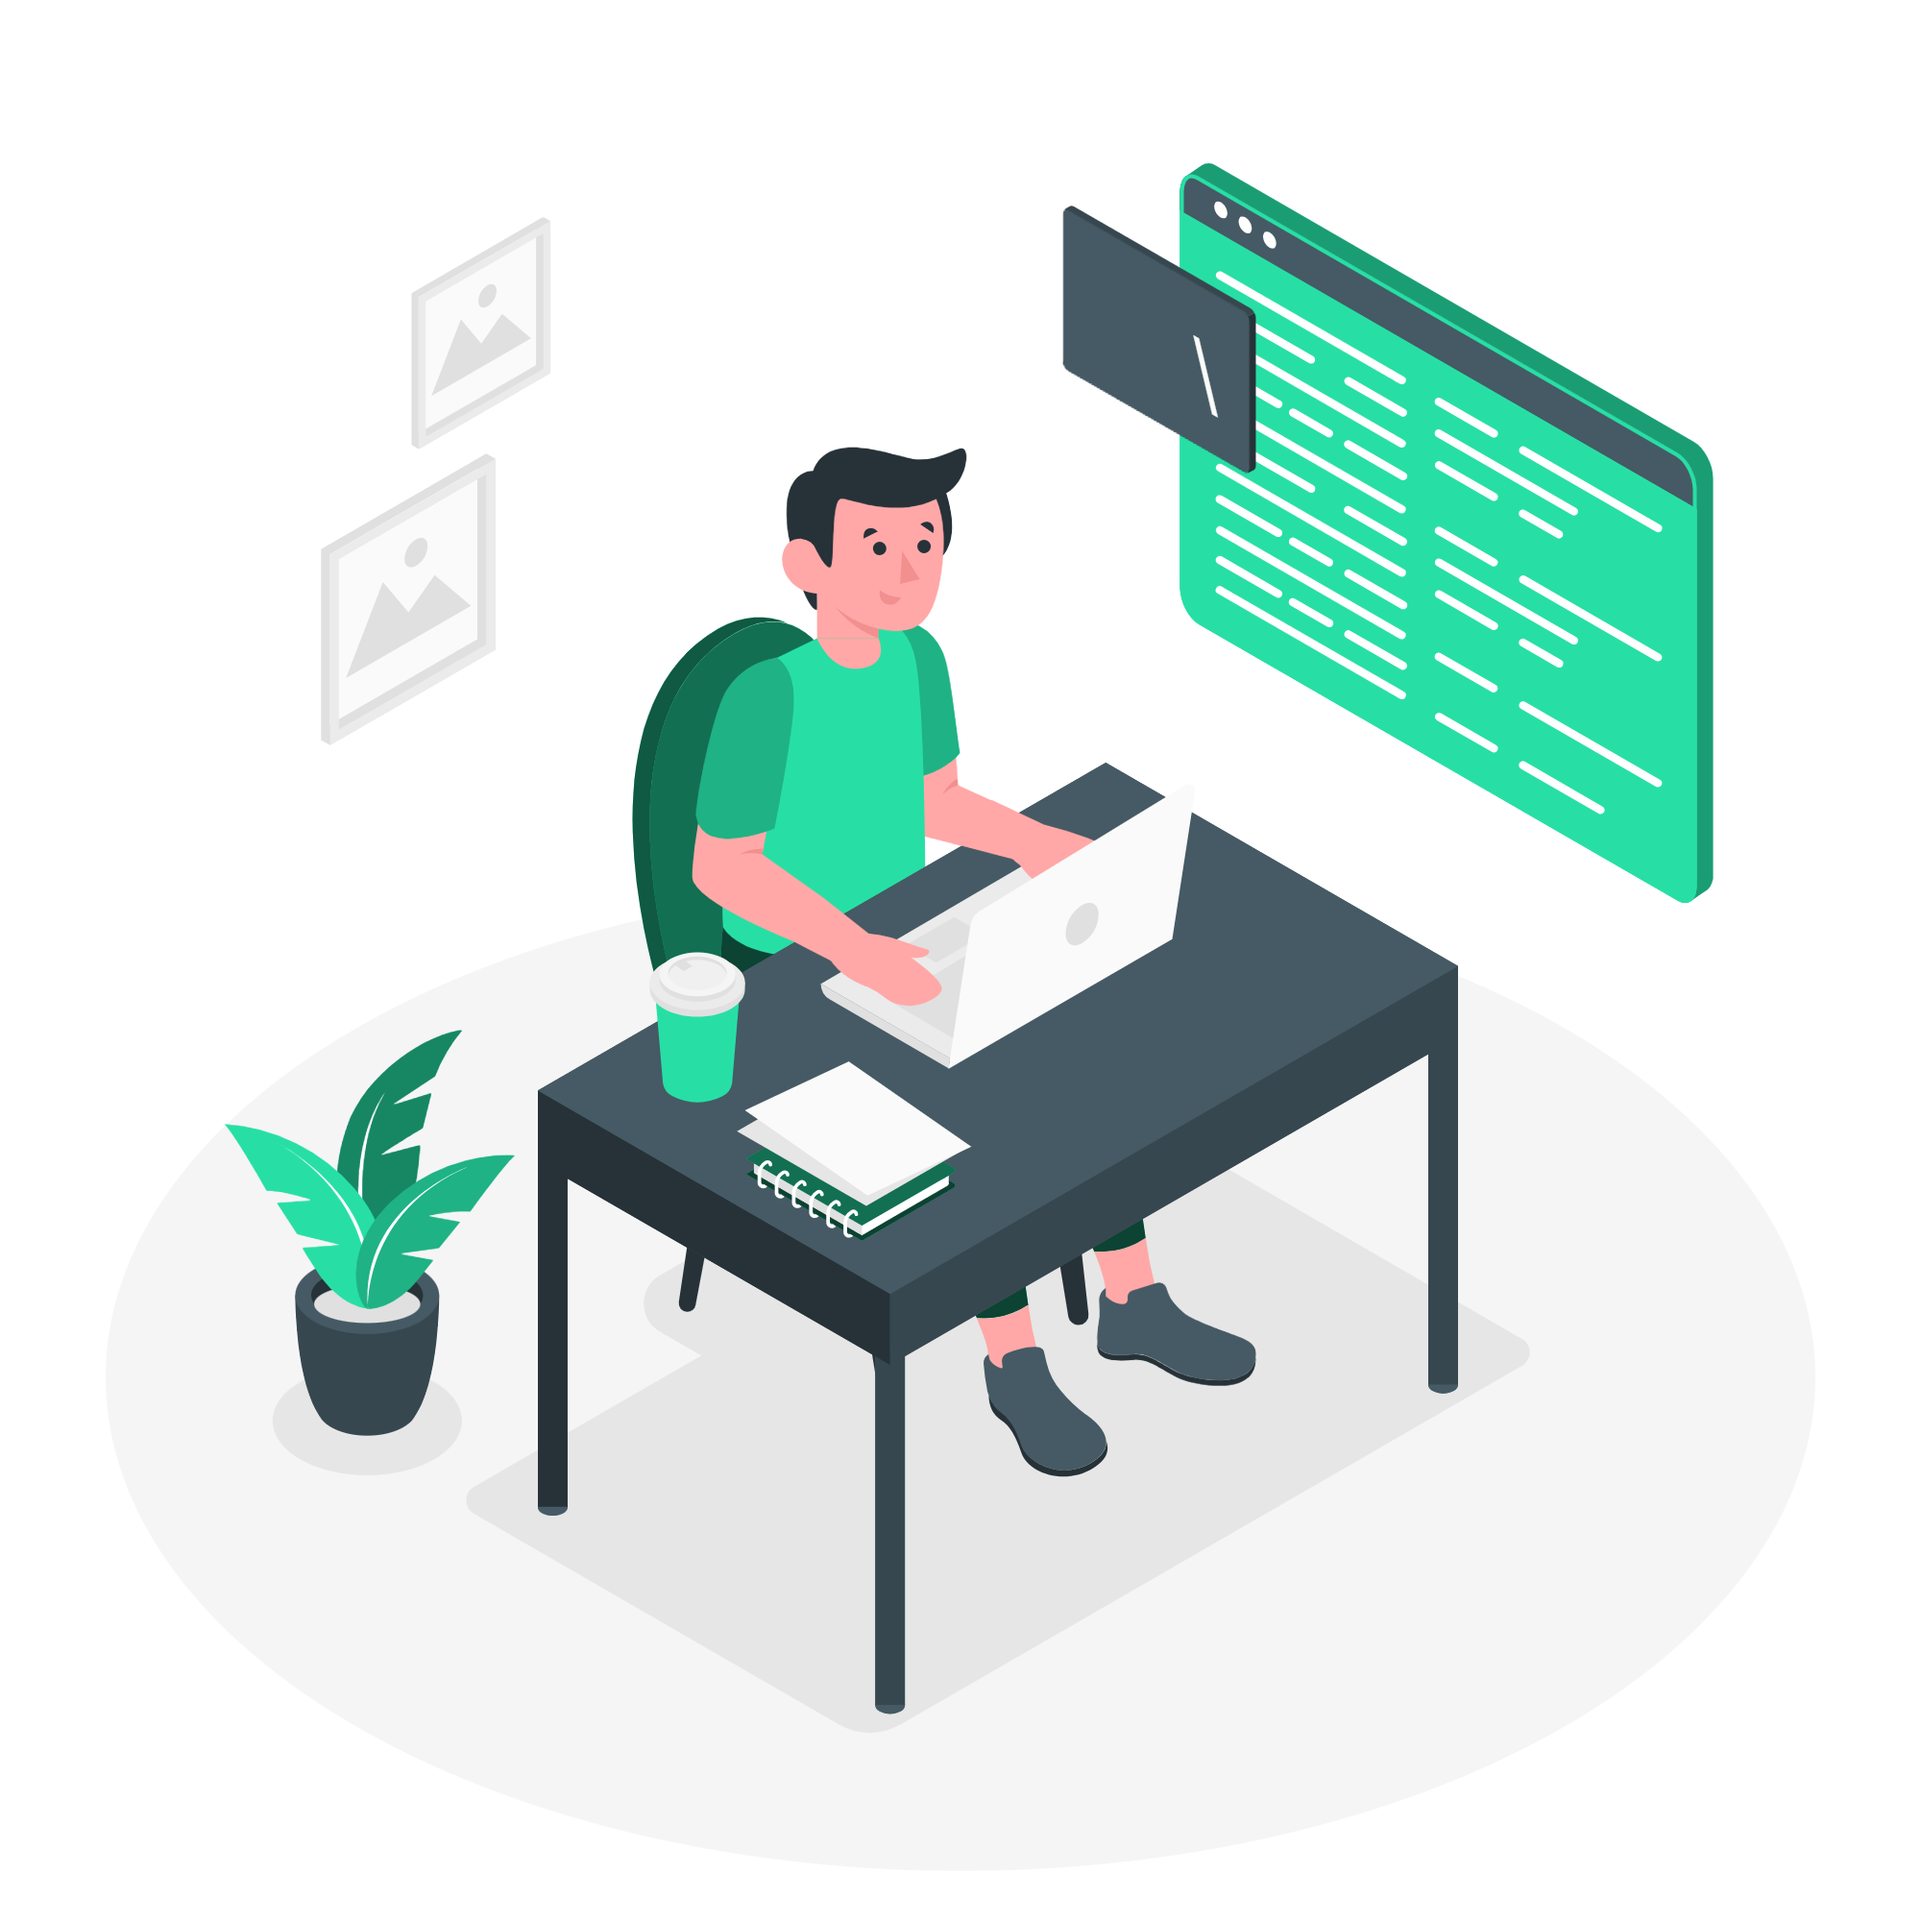
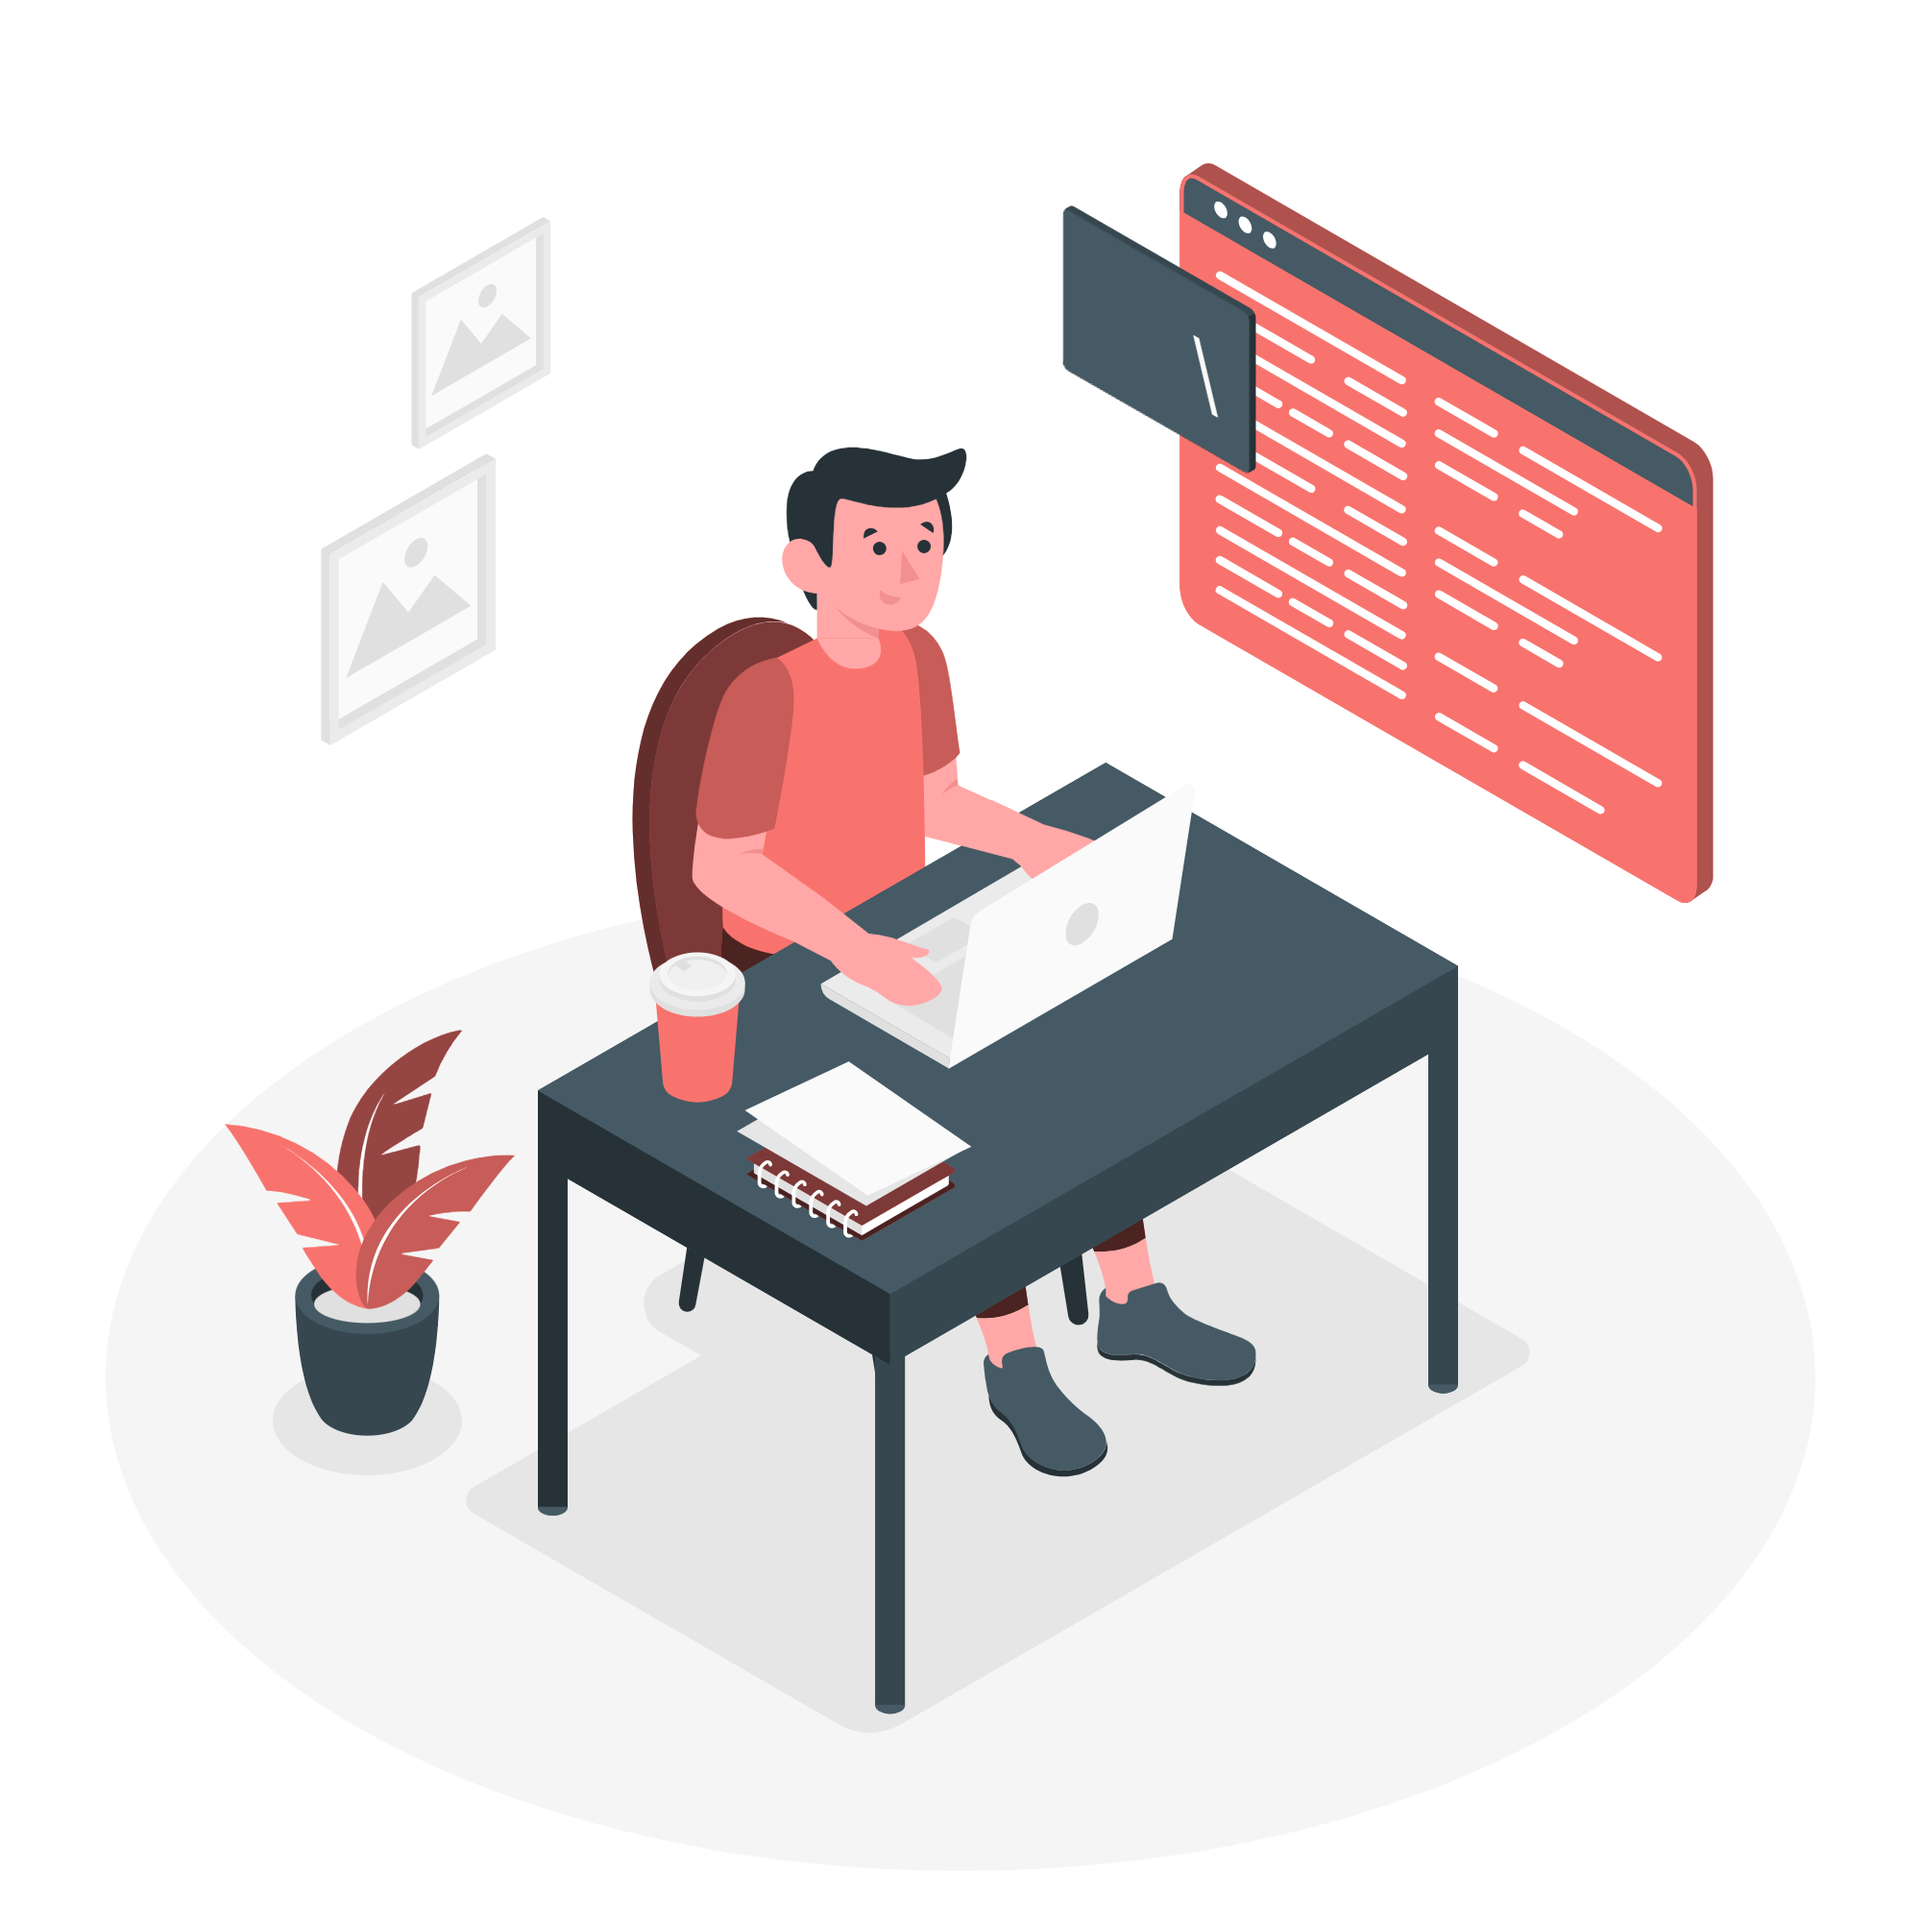
02102024

diff --git a/style.css b/style.css
@@ -1,10 +1,10 @@
 :root{
     /* COLORS */
-    --main-color : #131417;
-    --secondary-color : #1C1D21;
-    --highlight-color : #27DFA5;
-    --highlight-flash-color : #00E0DA;
-    --text-color : #FFFFFF;
+    --main-color : #F6F7F1;
+    --secondary-color : #FFFF44;
+    --third-color : #F9736E;
+    --highlight-color : #05480D;
+    --text-color : #031602;
     /* FONTS */
     --primary-font : 'Roboto', sans-serif;
     --secondary-font : 'Poppins', sans-serif;
@@ -42,8 +42,8 @@ nav{
     display: flex;
     align-items: center;
     padding: 20px 25px;
-    background: var(--secondary-color);
-    box-shadow: inset 0px -3px 0px var(--highlight-color);
+    background: var(--main-color);
+    box-shadow: inset 0px -3px 0px var(--third-color);
     font-family: var(--primary-font);
     z-index: 9;
 }
@@ -90,6 +90,7 @@ nav{
     font-weight: 500;
     display: inline-block;
     position: relative;
+    font-weight: bold;
 }
 
 .navlinks-container a::after{
@@ -128,8 +129,8 @@ nav{
 /* INTRO */
 
 .intro{
-    background: var(--main-color);
-    margin-top: 70px;
+    background: linear-gradient(to bottom right , var(--secondary-color) , var(--main-color) 20% , var(--main-color) 80% , var(--secondary-color));
+    margin-top: 55px;
     padding: 60px 40px;
     display: grid;
     grid-template-columns: 1fr 2fr;
@@ -152,7 +153,7 @@ nav{
 .intro--text--title{
     font-weight: bold;
     font-size: 3rem;
-    background-image: linear-gradient(to bottom right , var(--highlight-color) , var(--highlight-flash-color));
+    background-image: linear-gradient(to bottom right , var(--highlight-color) , var(--text-color));
     background-clip: text;
     color: transparent;
     margin: 10px 0 15px 0;
@@ -162,7 +163,7 @@ nav{
     font-size: 1.5rem;
     margin-bottom: 20px;
     font-style: italic;
-    color: var(--highlight-flash-color);
+    color: var(--highlight-color);
 }
 
 .intro--text--links{
@@ -171,6 +172,7 @@ nav{
     gap: 30px;
     margin-top: 50px;
     font-weight: bold;
+    flex-wrap: wrap;
 }
 
 .cta{
@@ -210,13 +212,14 @@ nav{
 /* ABOUT */
 
 .about{
-    background: var(--secondary-color);
+    background: var(--third-color);
+    color: var(--main-color);
     padding: 60px;
 }
 
 .about--title{
     font-size: 1.5rem;
-    color: var(--highlight-color);
+    color: var(--secondary-color);
     margin-bottom: 25px;
     font-weight: bold;
 }
@@ -224,7 +227,7 @@ nav{
 /* PROJECTS */
 
 .projects{
-    background: var(--main-color);
+    background: linear-gradient(to bottom left , var(--secondary-color) , var(--main-color) 20% , var(--main-color) 80% , var(--secondary-color));
     padding: 60px;
 }
 
@@ -238,18 +241,20 @@ nav{
 .projects--container{
     display: flex;
     justify-content: center;
-    gap: 20px;
+    gap: 15px;
+    flex-wrap: wrap;
 }
 
 .projects--card{
     height: 550px;
-    width: 400px;
-    background: var(--secondary-color);
+    width: 280px;
+    background: var(--main-color);
     border: 2px solid var(--highlight-color);
     border-radius: 5px;
     padding: 20px;
     display: flex;
     flex-direction: column;
+    flex: none;
 }
 
 .projects--card--name{
@@ -262,6 +267,7 @@ nav{
 .projects--card--description,
 .projects--card--stack{
     margin-bottom: 10px;
+    color: var(--highlight-color);
 }
 
 .projects--card--stack{
@@ -269,13 +275,13 @@ nav{
 }
 
 .projects--card--btn{
-    background: var(--highlight-color);
+    background: var(--third-color);
     width: calc(100% - 40px);
     padding: 15px;
     color: var(--main-color);
     border-radius: 5px;
     text-align: center;
-    border: 2px solid var(--highlight-color);
+    border: 2px solid var(--third-color);
     cursor: pointer;
     transition: 0.3s ease-in-out;
     margin-top: auto;
@@ -284,21 +290,26 @@ nav{
 
 .projects--card--btn:hover{
     background: transparent;
-    color: var(--text-color);
+    color: var(--third-color);
 }
 
 /* REALISATIONS */
 
 .realisations{
-    background: var(--secondary-color);
+    background: var(--third-color);
     padding: 60px;
 }
 
 .realisations--title{
     font-size: 1.5rem;
-    color: var(--highlight-color);
+    color: var(--secondary-color);
     margin-bottom: 25px;
     font-weight: bold;
+}
+
+.realisation--card{
+    display: grid;
+    grid-template-columns: 1fr 1fr;
 }
 
 /* CONTACT */
@@ -318,7 +329,7 @@ nav{
 /* FOOTER */
 
 .footer{
-    background: var(--secondary-color);
+    background: var(--third-color);
     padding: 25px 0;
     margin-top: auto;
     border-top: 2px solid var(--highlight-color);
@@ -332,6 +343,22 @@ nav{
 }
 
 /* RESPONSIVE */
+
+@media only screen and (max-width: 1020px){
+
+    .intro{
+        padding: 60px 20px;
+    }
+}
+
+@media only screen and (max-width: 980px){
+
+    .intro{
+        display: flex;
+        flex-direction: column;
+        padding: 60px 40px;
+    }
+}
 
 @media only screen and (max-width: 820px){
 
@@ -423,4 +450,33 @@ nav{
         position: relative;
         transform: translateY(50px);
     }
+}
+
+@media only screen and (max-width: 600px){
+
+    .intro{
+        padding: 60px 20px;
+    }
+    
+    .intro--illustration img{
+        width: 350px;
+        height: 350px;
+    }
+
+    .intro--text{
+        padding: 0;
+    }
+
+    .intro--text--links{
+        gap: 15px;
+    }
+
+    .about{
+        padding: 60px 20px;
+    }
+
+    .projects{
+        padding: 60px 20px;
+    }
+
 }

diff --git a/index.html b/index.html
@@ -114,6 +114,7 @@
         </section>
         <section class="realisations" id="realisations">
           <h2 class="realisations--title">Mes réalisations</h2>
+          
         </section>
         <section class="contact" id="contact">
           <h2 class="contact--title">Contactez moi !</h2>
